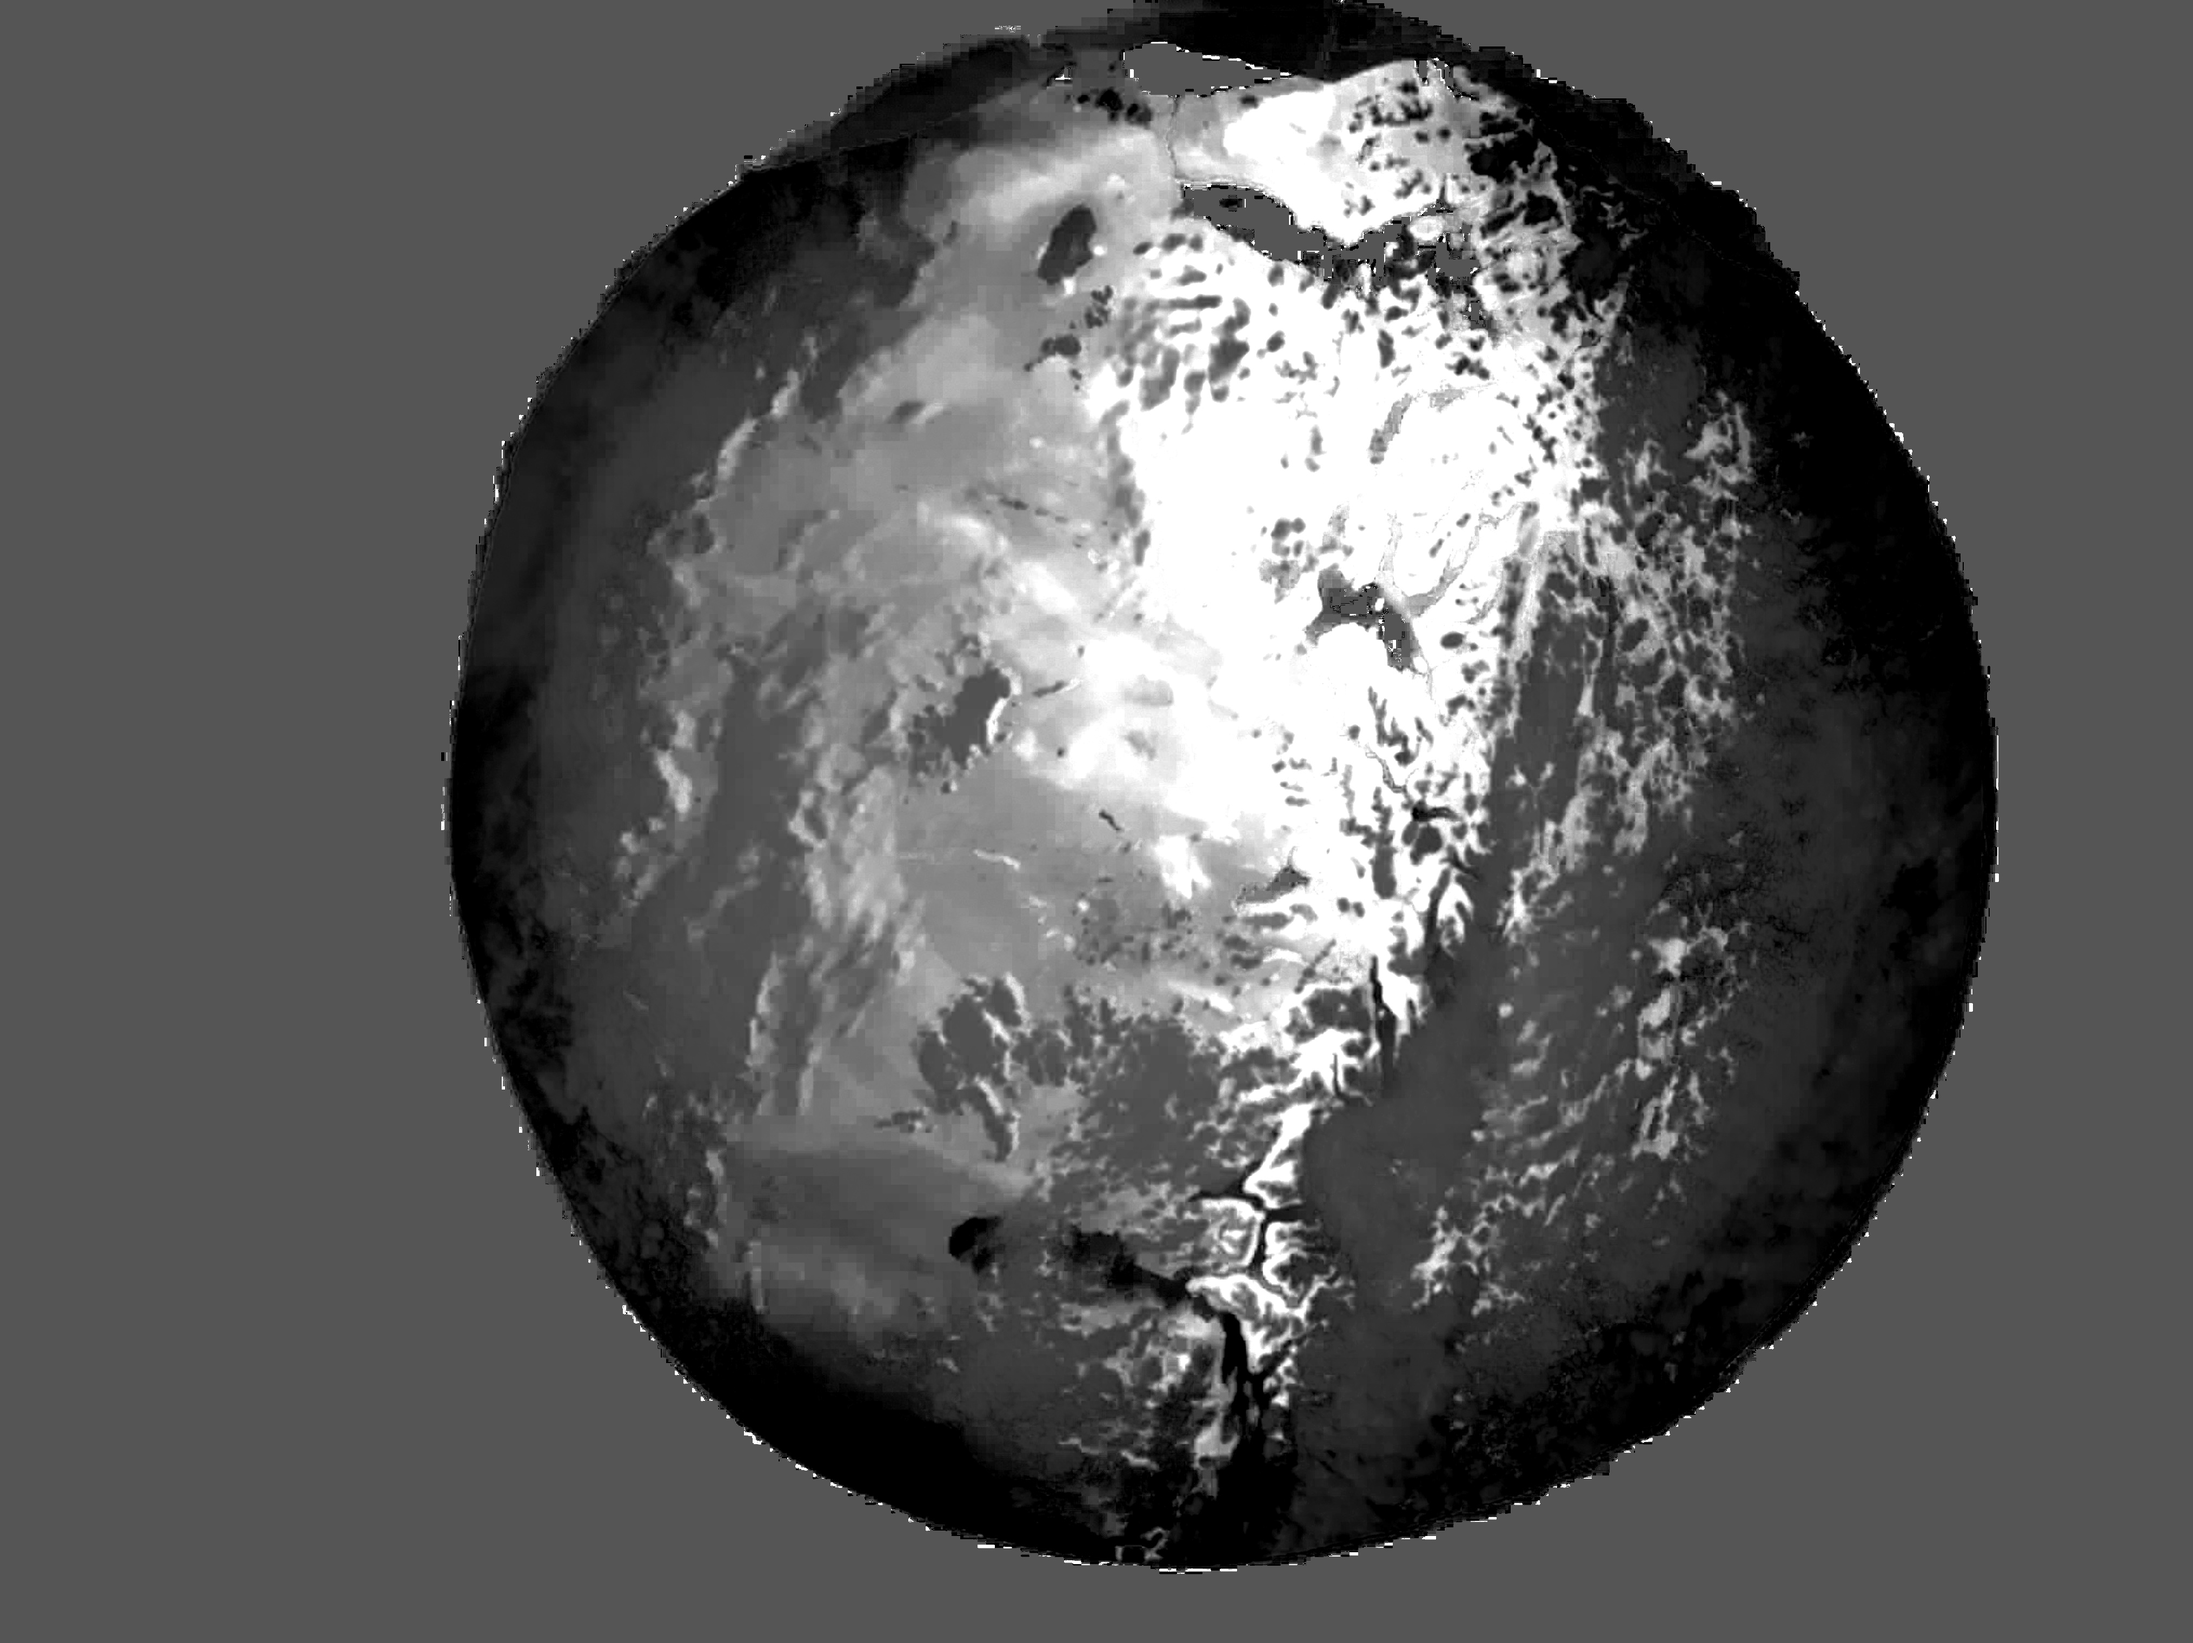
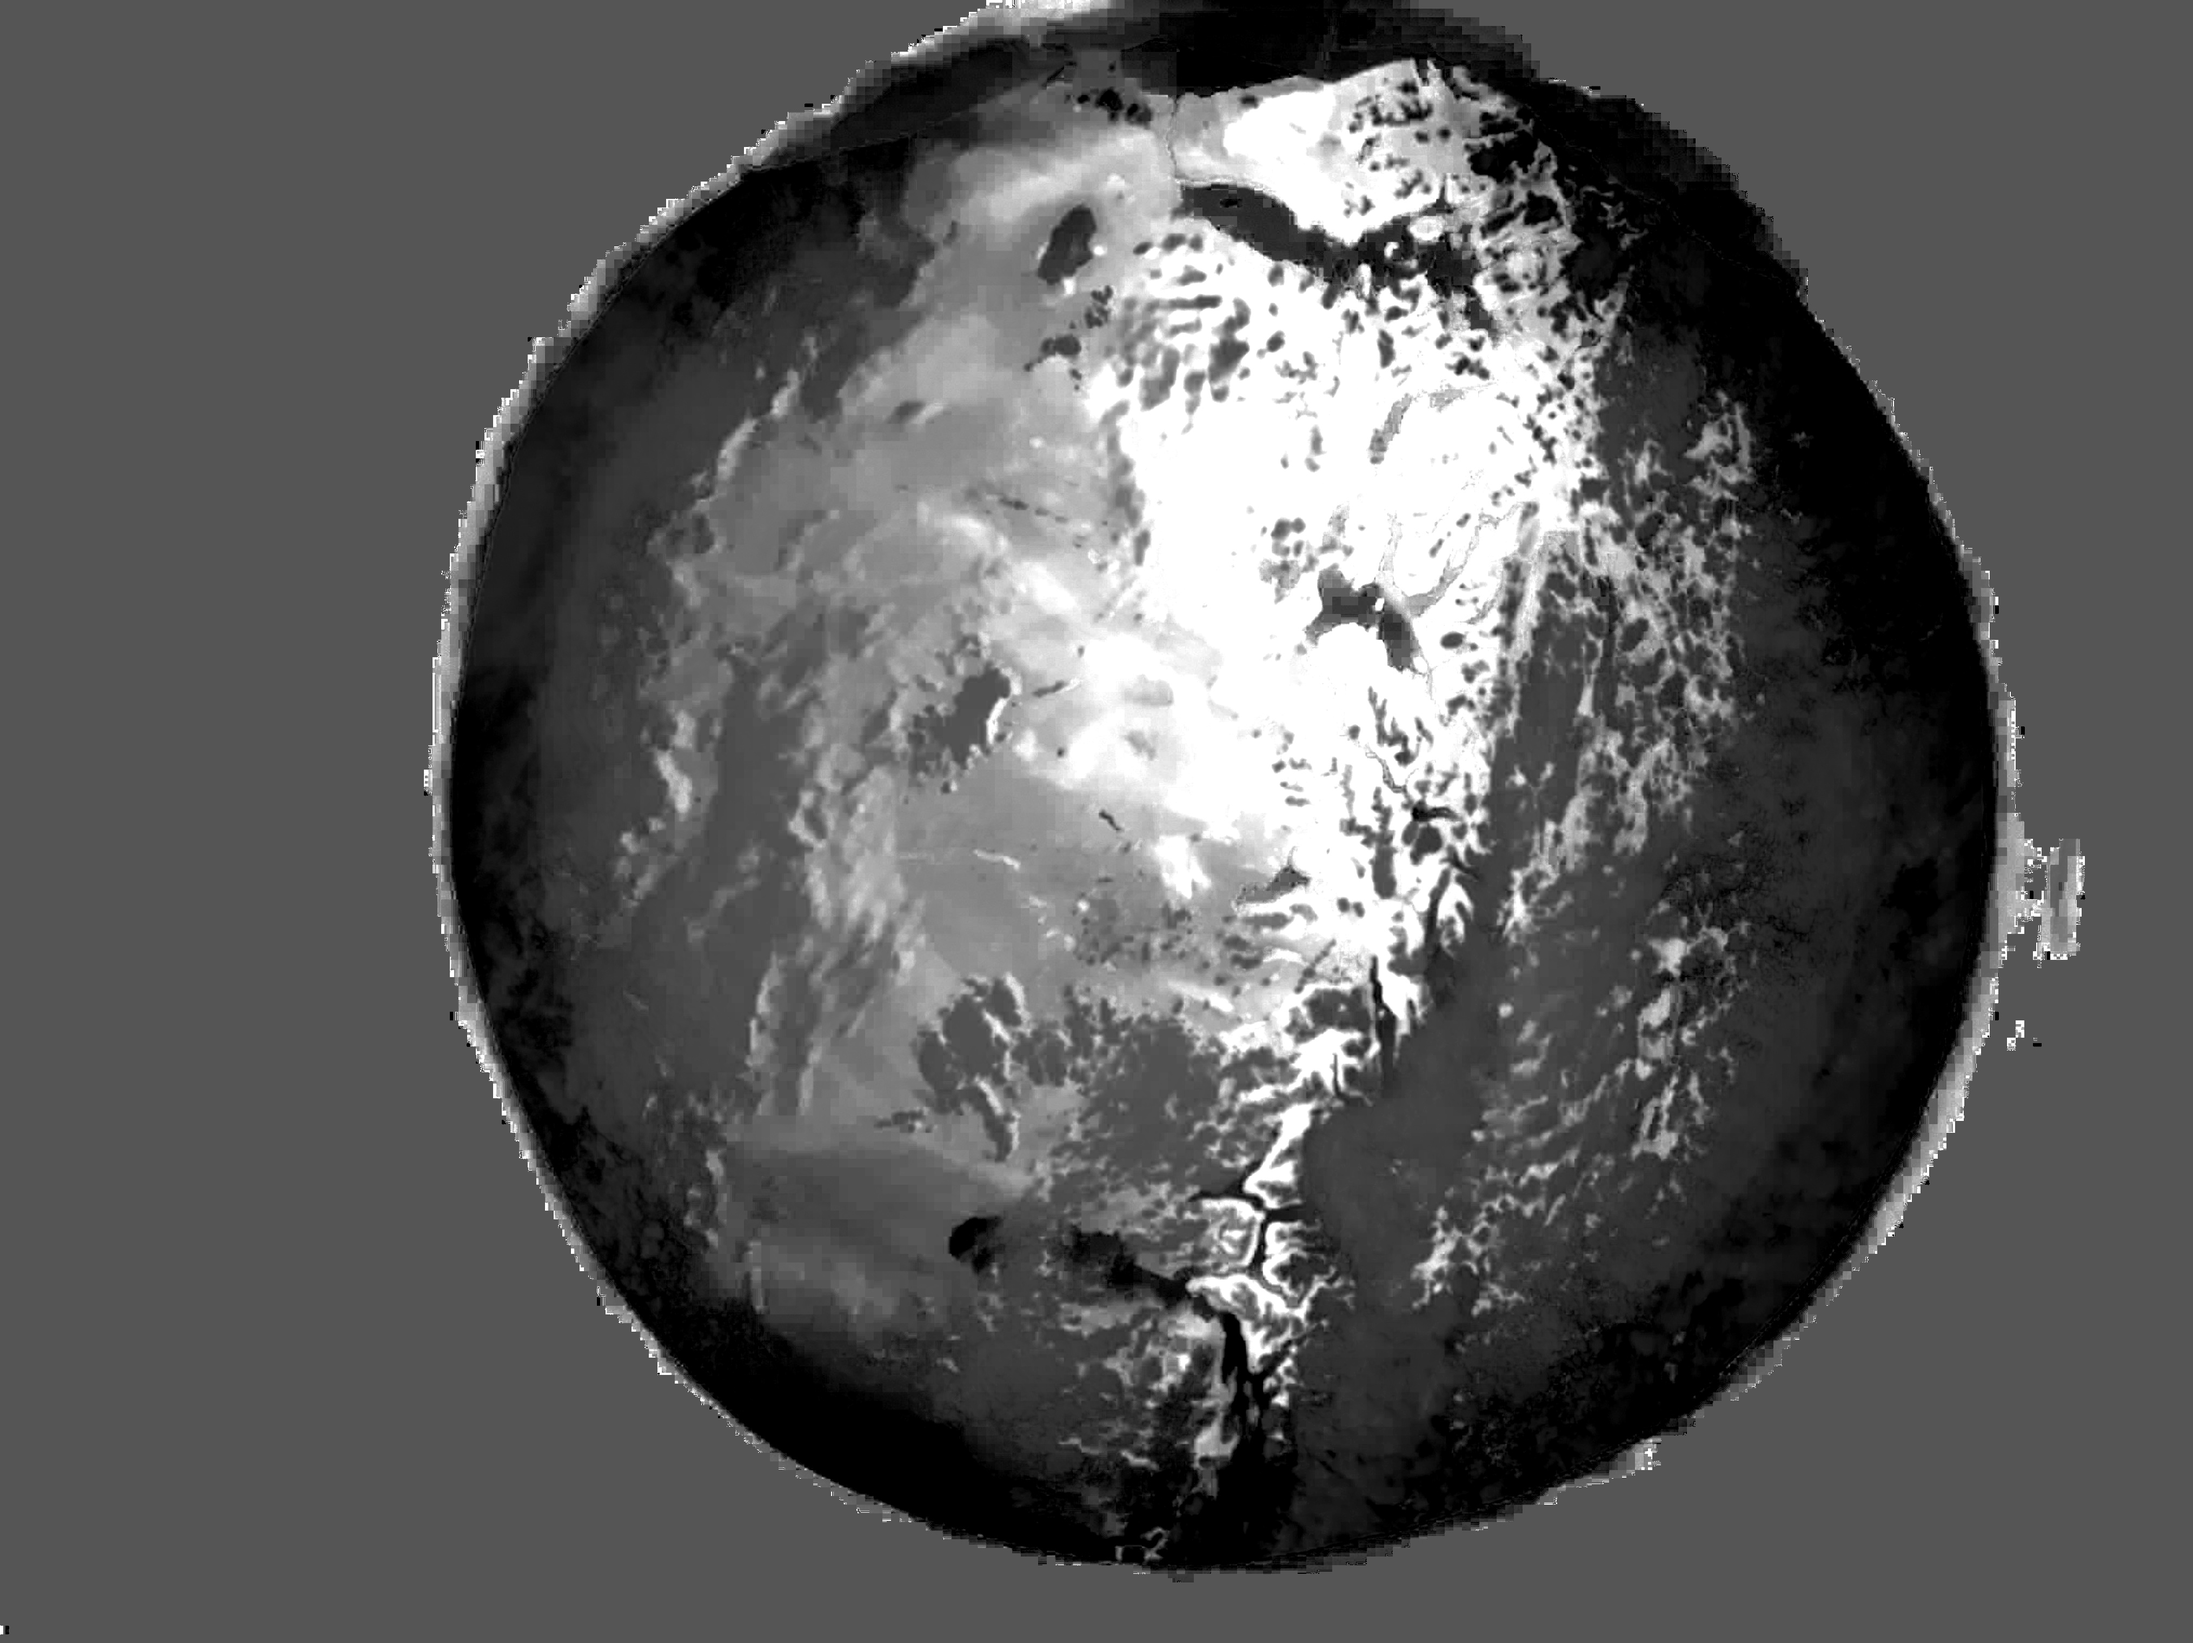
modificato il parametro di correzione

diff --git a/ndvi.py b/ndvi.py
@@ -53,7 +53,7 @@ def processRect(x, y, lx, ly, img, imgSize):
             pixelData = img.getpixel((xx,yy))
             rectValue += sum(pixelData)
 
-    if rectValue/(lx*ly*3) < 30:
+    if rectValue/(lx*ly*3) < 15:
         # print(f'hey {rectValue/(lx*ly*3)}')
         for xx in range(x, x + lx):
             for yy in range(y, y + ly):
